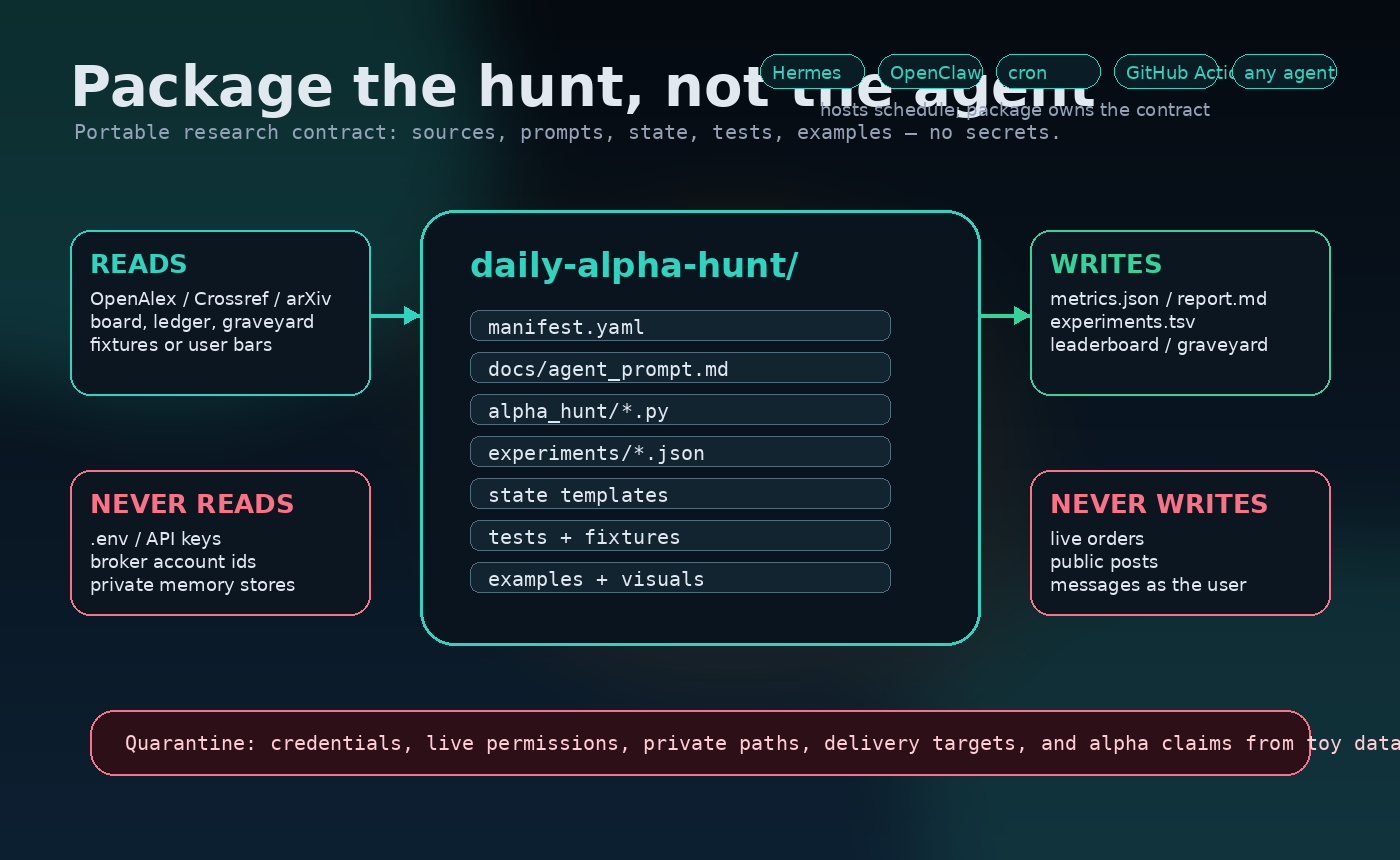
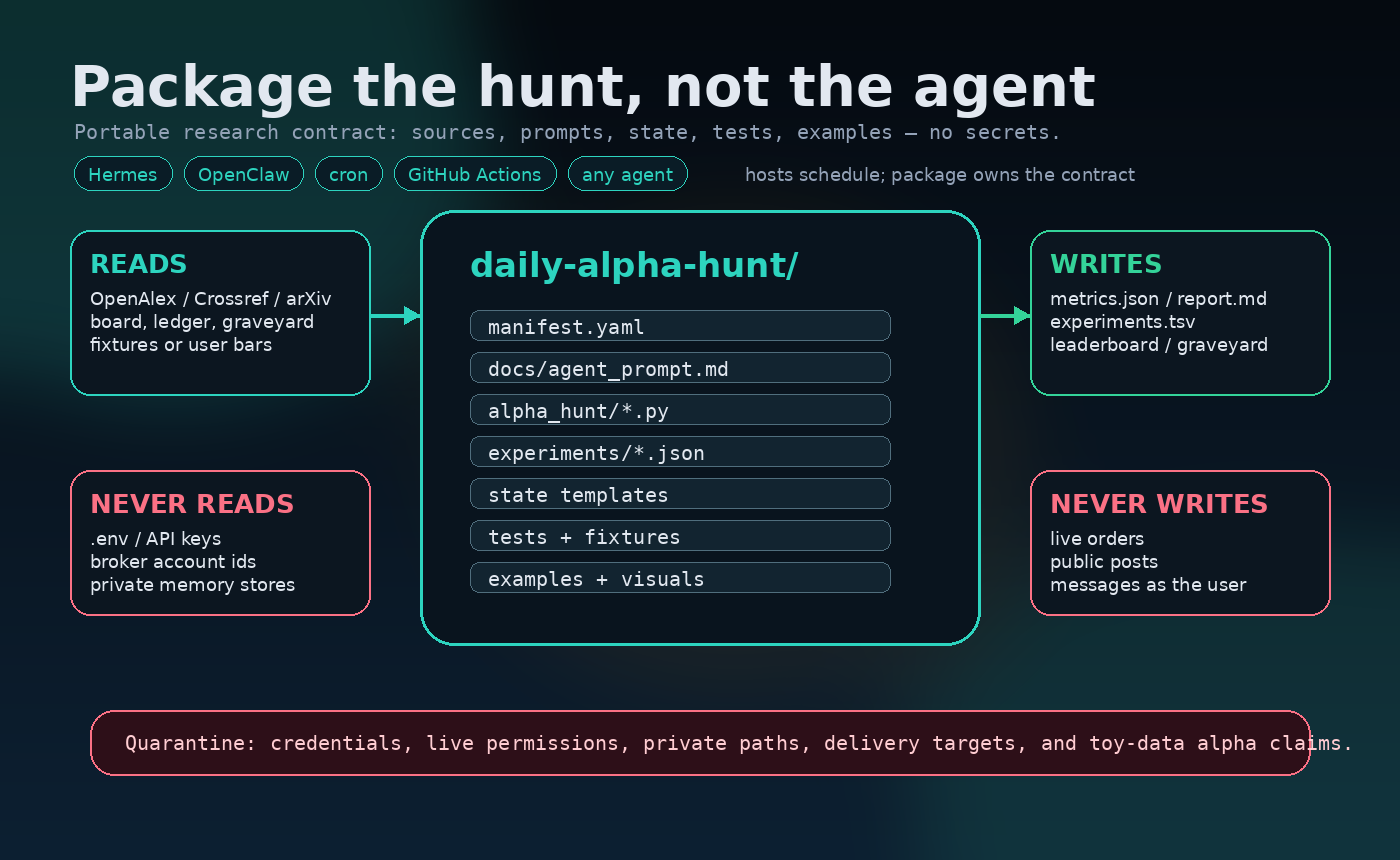
Fix alpha hunt hero layout

diff --git a/scripts/render_static_assets.py b/scripts/render_static_assets.py
@@ -70,12 +70,16 @@ def boundary():
     img = base(1400, 860); d = ImageDraw.Draw(img)
     d.text((70, 54), "Package the hunt, not the agent", font=FT, fill=TEXT)
     d.text((74, 120), "Portable research contract: sources, prompts, state, tests, examples — no secrets.", font=FM, fill=MUTED)
-    # host chips
-    for i, chip in enumerate(["Hermes", "OpenClaw", "cron", "GitHub Actions", "any agent"]):
-        x = 760 + i*118
-        d.rounded_rectangle((x, 54, x+104, 88), radius=17, fill=(10, 28, 38, 230), outline=TEAL+(120,), width=1)
-        d.text((x+12, 62), chip, font=FS, fill=TEAL)
-    d.text((820, 99), "hosts schedule; package owns the contract", font=FS, fill=MUTED)
+    # host chips: keep them below the subtitle so the hero title owns the top line.
+    x = 74
+    y = 156
+    for chip in ["Hermes", "OpenClaw", "cron", "GitHub Actions", "any agent"]:
+        bbox = d.textbbox((0, 0), chip, font=FS)
+        w = bbox[2] - bbox[0] + 28
+        d.rounded_rectangle((x, y, x+w, y+34), radius=17, fill=(10, 28, 38, 230), outline=TEAL+(120,), width=1)
+        d.text((x+14, y+8), chip, font=FS, fill=TEAL)
+        x += w + 12
+    d.text((745, 164), "hosts schedule; package owns the contract", font=FS, fill=MUTED)
     # center package
     d.rounded_rectangle((420, 210, 980, 645), radius=34, fill=(9, 20, 30, 245), outline=TEAL+(210,), width=3)
     d.text((470, 245), "daily-alpha-hunt/", font=FB, fill=TEAL)
@@ -93,7 +97,7 @@ def boundary():
     arrow(d, (370, 315), (420, 315), TEAL)
     arrow(d, (980, 315), (1030, 315), GREEN)
     d.rounded_rectangle((90, 710, 1310, 775), radius=24, fill=(45, 15, 24, 220), outline=RED+(180,), width=2)
-    d.text((125, 731), "Quarantine: credentials, live permissions, private paths, delivery targets, and alpha claims from toy data stay outside.", font=FM, fill=(255, 205, 210))
+    d.text((125, 731), "Quarantine: credentials, live permissions, private paths, delivery targets, and toy-data alpha claims.", font=FM, fill=(255, 205, 210))
     img.convert('RGB').save(OUT/'alpha-hunt-package-boundary.png', quality=95)
 
 